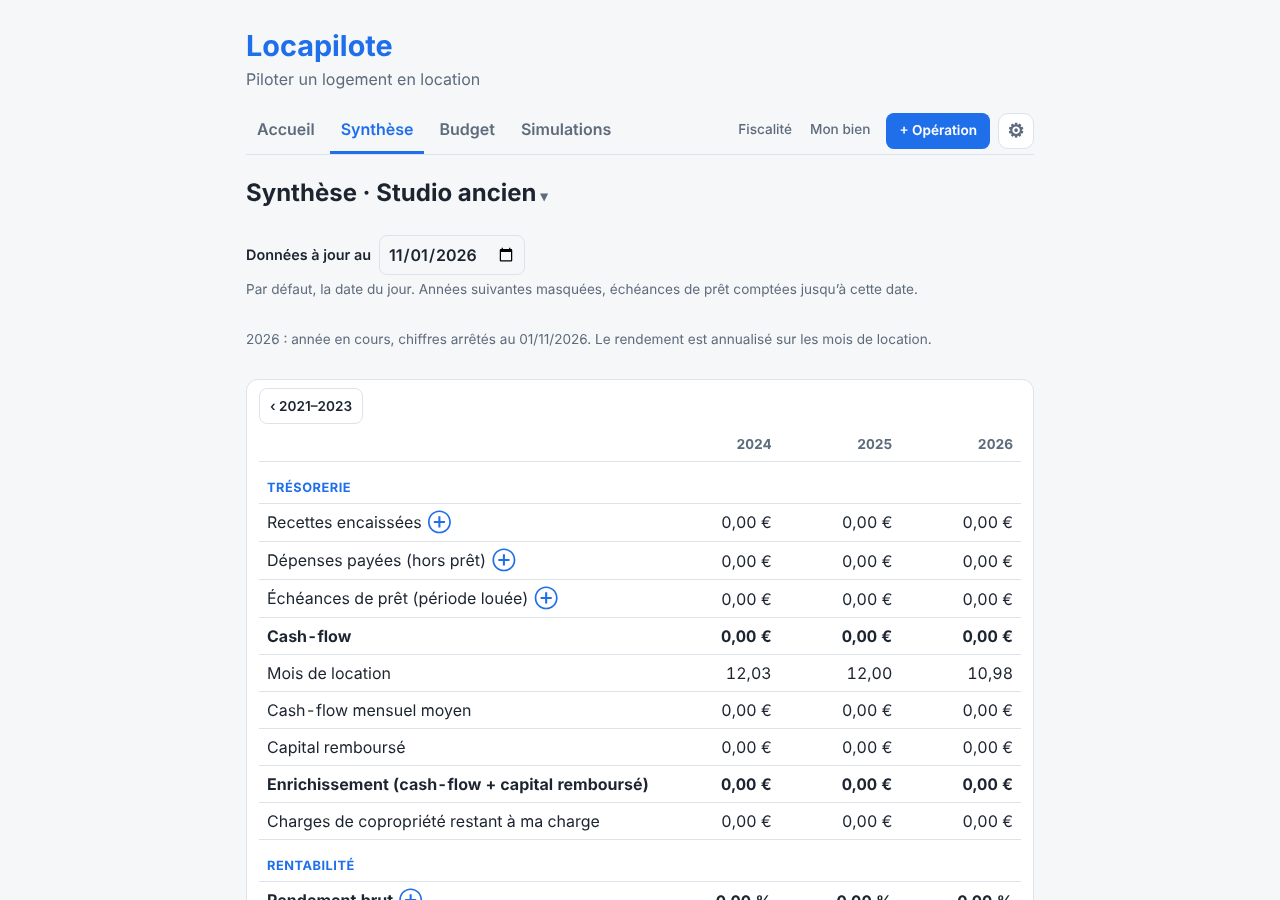
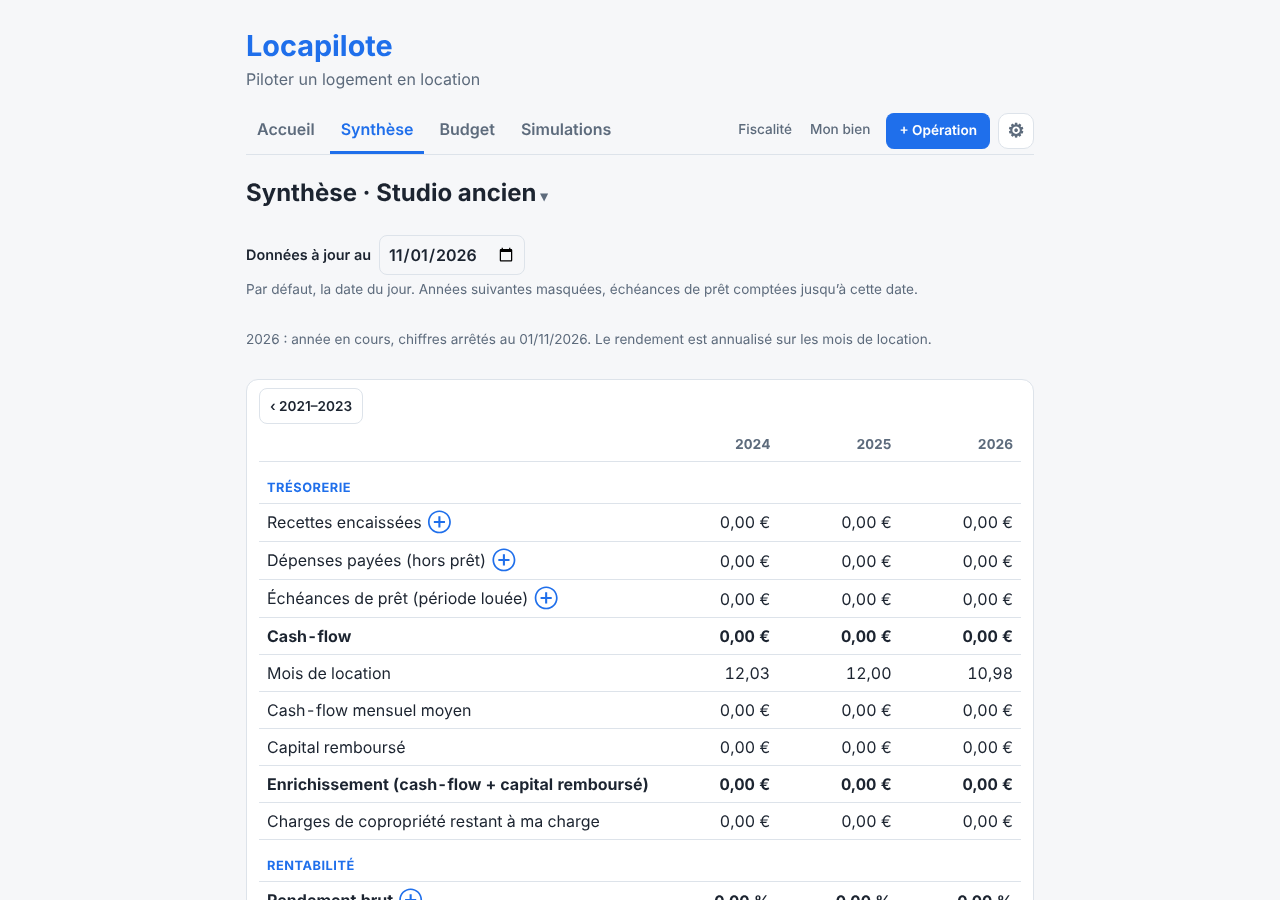
Ajuste la colonne des libellés de la Synthèse à son plus long libellé
Une largeur figée tronquait un libellé quand la police est plus large
(cas de la CI).

Claude-Session: https://claude.ai/code/session_01UFsouoUKRZkCHxgh2qP2Kk

diff --git a/src/ui/styles.css b/src/ui/styles.css
@@ -1618,24 +1618,13 @@ ul.warning {
 }
 
 /*
- * Synthèse sur ordinateur : colonne des libellés de largeur fixe, sur une ligne ; les colonnes
- * d'années se partagent le reste.
+ * Synthèse sur ordinateur : la colonne des libellés prend la largeur de son plus long libellé,
+ * sur une ligne (la même quelle que soit la fenêtre d'années, et quelle que soit la police) ;
+ * les colonnes d'années se partagent le reste.
  */
-.synthesis-years {
-  table-layout: fixed;
-}
-
-.synthesis-years col.label-col {
-  width: 25rem;
-}
-
 .synthesis-years th[scope='row'] {
+  width: 1%;
   white-space: nowrap;
-}
-
-.synthesis-years td {
-  overflow: hidden;
-  text-overflow: ellipsis;
 }
 
 .table-note {

diff --git a/src/ui/pages/SynthesisPage.tsx b/src/ui/pages/SynthesisPage.tsx
@@ -317,12 +317,6 @@ export function SynthesisPage({ data, property, today }: Props) {
               </nav>
             )}
             <table className="synthesis-table synthesis-years" aria-label="Synthèse annuelle">
-              <colgroup>
-                <col className="label-col" />
-                {wideYears.map((y) => (
-                  <col key={y.year} />
-                ))}
-              </colgroup>
               <thead>
                 <tr>
                   <th scope="col">
